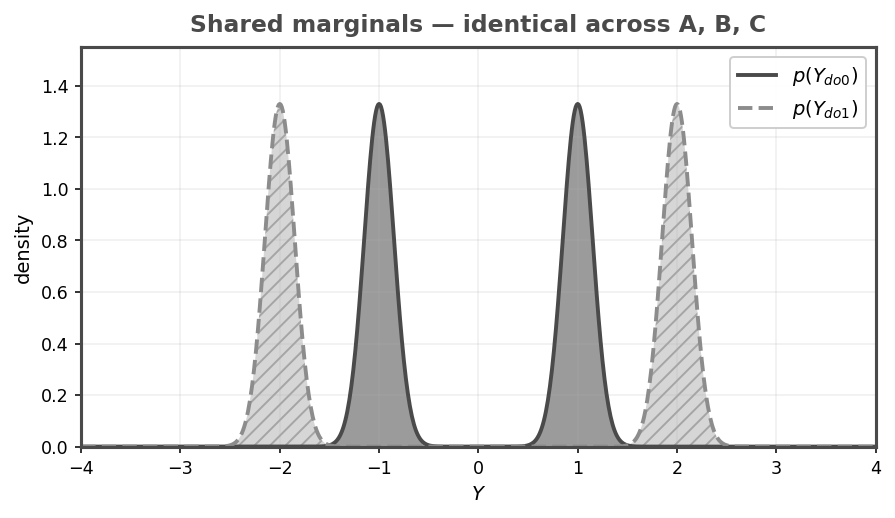
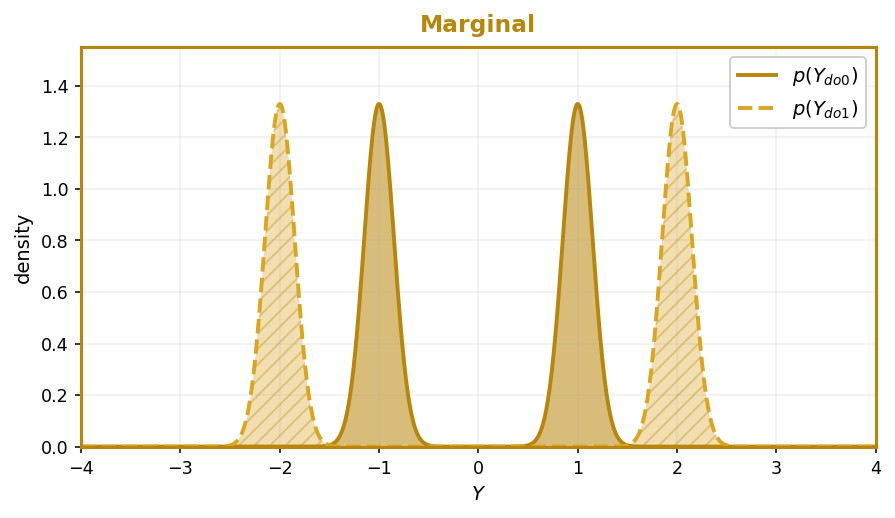
Marginal panel: rename title to 'Marginal', swap gray → amber palette
* Title  'Shared marginals — identical across A, B, C'  →  'Marginal'
  * Palette: p(Y_do0) dark goldenrod solid; p(Y_do1) goldenrod dashed +
    hatch. Border and title use dark goldenrod. Warm amber tones read
    better than the previous grays and stay clearly distinct from the
    per-case blue/green/red on the surrounding rows.

Applied to both the composite phantoms_v2 layouts and the standalone
panel_marginals.png.

diff --git a/benchmarks/plots/plot_marginal_only_failure.py b/benchmarks/plots/plot_marginal_only_failure.py
@@ -194,8 +194,11 @@ def build_phantoms_v2_figure(with_arrows: bool = False):
     """
     # Neutral gray palette for the shared marginals so they read as "input"
     # rather than being confused with any of the coloured cases.
-    GRAY_DARK   = '#4A4A4A'
-    GRAY_MEDIUM = '#8C8C8C'
+    # Warm amber palette — distinct from the per-case colors and easier
+    # on the eye than the previous grays.
+    MARG_DARK   = '#B8860B'    # dark goldenrod   (for p(Y_do0))
+    MARG_LIGHT  = '#DAA520'    # goldenrod        (for p(Y_do1))
+    GRAY_DARK, GRAY_MEDIUM = MARG_DARK, MARG_LIGHT   # keep old names local
 
     fig = plt.figure(figsize=(14, 11.5))
     # Tighter spacing + slightly narrower row 2 so the layout reads as one
@@ -248,7 +251,7 @@ def build_phantoms_v2_figure(with_arrows: bool = False):
     ax_marg.set_ylim(0, 1.55)
     ax_marg.set_xlabel(r'$Y$')
     ax_marg.set_ylabel('density')
-    ax_marg.set_title(r'Shared marginals — identical across A, B, C',
+    ax_marg.set_title('Marginal',
                         fontsize=12, fontweight='bold', pad=8, color=GRAY_DARK)
     ax_marg.legend(fontsize=10, loc='upper right', frameon=True, framealpha=0.95)
     for spine in ax_marg.spines.values():
@@ -405,20 +408,20 @@ def _save_panel_marginals(name):
     fig, ax = plt.subplots(figsize=(6.5, 3.8))
     p_y0 = kde_1d(Y0_CENTRES, np.array([0.5, 0.5]), GRID_Y)
     p_y1 = kde_1d(Y1_CENTRES, np.array([0.5, 0.5]), GRID_Y)
-    GRAY_DARK, GRAY_MEDIUM = '#4A4A4A', '#8C8C8C'
-    ax.fill_between(GRID_Y, p_y0, alpha=0.55, color=GRAY_DARK, linewidth=0)
-    ax.plot(GRID_Y, p_y0, color=GRAY_DARK, lw=2.0, label=r'$p(Y_{do0})$')
-    ax.fill_between(GRID_Y, p_y1, alpha=0.35, color=GRAY_MEDIUM,
-                     linewidth=0, hatch='///', edgecolor=GRAY_DARK)
-    ax.plot(GRID_Y, p_y1, color=GRAY_MEDIUM, lw=2.0, ls='--',
+    MARG_DARK, MARG_LIGHT = '#B8860B', '#DAA520'
+    ax.fill_between(GRID_Y, p_y0, alpha=0.55, color=MARG_DARK, linewidth=0)
+    ax.plot(GRID_Y, p_y0, color=MARG_DARK, lw=2.0, label=r'$p(Y_{do0})$')
+    ax.fill_between(GRID_Y, p_y1, alpha=0.35, color=MARG_LIGHT,
+                     linewidth=0, hatch='///', edgecolor=MARG_DARK)
+    ax.plot(GRID_Y, p_y1, color=MARG_LIGHT, lw=2.0, ls='--',
              label=r'$p(Y_{do1})$')
     ax.set_xlim(-4, 4); ax.set_ylim(0, 1.55)
     ax.set_xlabel(r'$Y$'); ax.set_ylabel('density')
-    ax.set_title(r'Shared marginals — identical across A, B, C',
-                  fontsize=12, fontweight='bold', pad=8, color=GRAY_DARK)
+    ax.set_title('Marginal',
+                  fontsize=12, fontweight='bold', pad=8, color=MARG_DARK)
     ax.legend(fontsize=10, loc='upper right', frameon=True, framealpha=0.95)
     for spine in ax.spines.values():
-        spine.set_edgecolor(GRAY_DARK); spine.set_linewidth(1.6)
+        spine.set_edgecolor(MARG_DARK); spine.set_linewidth(1.6)
     ax.tick_params(axis='both', which='both', length=3, labelsize=9)
     ax.grid(alpha=0.20)
     fig.tight_layout()